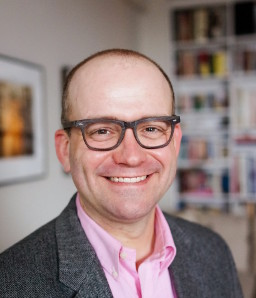
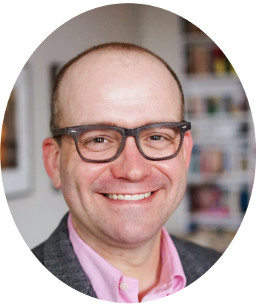
Updated files to be live

diff --git a/bootstrap-theme/index.html b/bootstrap-theme/index.html
@@ -71,7 +71,7 @@
         <div class="container">
             <div class="row">
                 <div class="col-lg-12">
-                    <img class="img-responsive profile-pic" src="img/profile.jpg" alt="Profile picture of Brian Lane">
+                    <img class="img-responsive profile-pic" src="img/brianprofile.png" alt="Profile picture of Brian Lane">
                     <div class="intro-text">
                         <span class="name">Brian Lane</span>
                         <hr class="star-light">
@@ -119,9 +119,14 @@
                                 <i class="fa fa-search-plus fa-3x"></i>
                             </div>
                         </div>
-                        <img src="img/portfolio/circus.png" class="img-responsive" alt="">
+                        <img src="img/portfolio/code.png" class="img-responsive" alt="Image of Gourmet Gaming code">
                     </a>
                 </div>
+                
+                
+<!--
+
+This is commented out until further portfolio entries require them!
                 <div class="col-sm-4 portfolio-item">
                     <a href="#portfolioModal4" class="portfolio-link" data-toggle="modal">
                         <div class="caption">
@@ -152,6 +157,7 @@
                         <img src="img/portfolio/submarine.png" class="img-responsive" alt="">
                     </a>
                 </div>
+-->
             </div>
         </div>
     </section>
@@ -167,14 +173,14 @@
             </div>
             <div class="row">
                 <div class="col-lg-4 col-lg-offset-2">
-                    <p>Freelancer is a free bootstrap theme created by Start Bootstrap. The download includes the complete source files including HTML, CSS, and JavaScript as well as optional LESS stylesheets for easy customization.</p>
+                    <p>I am a software developer with Java and iOS (Swift and Objective-C) experience. Background in practical object-oriented programming, design patterns, platform development, and bug fixing via independent game developer internship, including Eclipse, XCode (8), Git/GitHub, and UML design. Educational background in linguistics with a focus on natural language analysis, and self education in specific programming languages and methodologies. </p>
                 </div>
                 <div class="col-lg-4">
-                    <p>Whether you're a student looking to showcase your work, a professional looking to attract clients, or a graphic artist looking to share your projects, this template is the perfect starting point!</p>
+                    <p>I have spent most of 2016 interning at an independent gaming company, Gourmet Gaming, where I am helping to clean up and revamp their codebase. In my freetime I work on my own personal projects and study computer science and code topics.</p>
                 </div>
                 <div class="col-lg-8 col-lg-offset-2 text-center">
-                    <a href="#" class="btn btn-lg btn-outline">
-                        <i class="fa fa-download"></i> Download Theme
+                    <a href="https://drive.google.com/open?id=0ByeZ78LVhq34aW11NnJyck9OeU0" class="btn btn-lg btn-outline" target="_blank">
+                        <i class="fa fa-download"></i> My Resume
                     </a>
                 </div>
             </div>
@@ -237,6 +243,7 @@
     </section>
 
     <!-- Footer -->
+<!--
     <footer class="text-center">
         <div class="footer-above">
             <div class="container">
@@ -273,11 +280,12 @@
                 </div>
             </div>
         </div>
+-->
         <div class="footer-below">
             <div class="container">
                 <div class="row">
                     <div class="col-lg-12">
-                        Copyright &copy; Your Website 2016
+                        Copyright &copy; Brian Lane 2016
                     </div>
                 </div>
             </div>
@@ -311,7 +319,8 @@
                             <h3>A Swift productivity focus app</h3>
                             <hr class="star-primary">
                             <img src="img/portfolio/pomdoro.png" class="img-responsive img-centered" alt="Screenshots of a Pomodoro iOS app">
-                            <p>I designed and programmed a Pomodoro productivity app for iOS in Swift 3, featuring animations powered by the Facebook POP framework. Available in the App Store soon!</p>
+                            <p>I designed and programmed a Pomodoro productivity app for iOS in Swift 3, featuring animations powered by the Facebook POP framework. </p>
+                            <p><i><strong>Available in the App Store soon!</strong></i></p>
                             <ul class="list-inline item-details">
                                 <li>Language:
                                     <strong>Swift
@@ -373,6 +382,8 @@
             </div>
         </div>
     </div>
+    
+    <!-- Third Modal -->
     <div class="portfolio-modal modal fade" id="portfolioModal3" tabindex="-1" role="dialog" aria-hidden="true">
         <div class="modal-content">
             <div class="close-modal" data-dismiss="modal">
@@ -385,21 +396,22 @@
                 <div class="row">
                     <div class="col-lg-8 col-lg-offset-2">
                         <div class="modal-body">
-                            <h2>Project Title</h2>
+                            <h2>App Development</h2>
                             <hr class="star-primary">
-                            <img src="img/portfolio/circus.png" class="img-responsive img-centered" alt="">
-                            <p>Use this area of the page to describe your project. The icon above is part of a free icon set by <a href="https://sellfy.com/p/8Q9P/jV3VZ/">Flat Icons</a>. On their website, you can download their free set with 16 icons, or you can purchase the entire set with 146 icons for only $12!</p>
+                            <img src="img/portfolio/code.png" class="img-responsive img-centered" alt="A screenshot of Gourmet Gaming code">
+                            <p>I've been working to bring a large, legacy codebase up-to-date. Working on Gourmet Gaming Java and Objective-C code, I've repaired faulty loops and logic, changed collections, updated misaligned GUI elements, and updated deprecated code. I fixed view controller files designed in interface builder (pre-auto layout) for 4” iPhone to revise iOS app for modern devices and best practices. I updated legacy pre-ARC Objective-C app code to optimize performance, improve and modernize API implementation, and satisfy Apple standards.</p>
                             <ul class="list-inline item-details">
-                                <li>Client:
-                                    <strong><a href="http://startbootstrap.com">Start Bootstrap</a>
+                                <li>Language:
+                                    <strong>Java and Obj-C
                                     </strong>
                                 </li>
-                                <li>Date:
-                                    <strong><a href="http://startbootstrap.com">April 2014</a>
+
+                                <li>Website:
+                                    <strong><a href="http://gourmetgaming.com">Gourmet Gaming</a>
                                     </strong>
                                 </li>
-                                <li>Service:
-                                    <strong><a href="http://startbootstrap.com">Web Development</a>
+                                                                <li>Date:
+                                    <strong>Jan-Oct 2016
                                     </strong>
                                 </li>
                             </ul>
@@ -410,6 +422,8 @@
             </div>
         </div>
     </div>
+    
+    <!--
     <div class="portfolio-modal modal fade" id="portfolioModal4" tabindex="-1" role="dialog" aria-hidden="true">
         <div class="modal-content">
             <div class="close-modal" data-dismiss="modal">
@@ -521,6 +535,8 @@
             </div>
         </div>
     </div>
+
+-->
 
     <!-- jQuery -->
     <script src="vendor/jquery/jquery.min.js"></script>

diff --git a/bootstrap-theme/mail/contact_me.php b/bootstrap-theme/mail/contact_me.php
@@ -16,7 +16,7 @@ $phone = strip_tags(htmlspecialchars($_POST['phone']));
 $message = strip_tags(htmlspecialchars($_POST['message']));
 	
 // Create the email and send the message
-$to = 'yourname@yourdomain.com'; // Add your email address inbetween the '' replacing yourname@yourdomain.com - This is where the form will send a message to.
+$to = 'mr.brianlane@gmail.com'; // Add your email address inbetween the '' replacing yourname@yourdomain.com - This is where the form will send a message to.
 $email_subject = "Website Contact Form:  $name";
 $email_body = "You have received a new message from your website contact form.\n\n"."Here are the details:\n\nName: $name\n\nEmail: $email_address\n\nPhone: $phone\n\nMessage:\n$message";
 $headers = "From: noreply@yourdomain.com\n"; // This is the email address the generated message will be from. We recommend using something like noreply@yourdomain.com.
